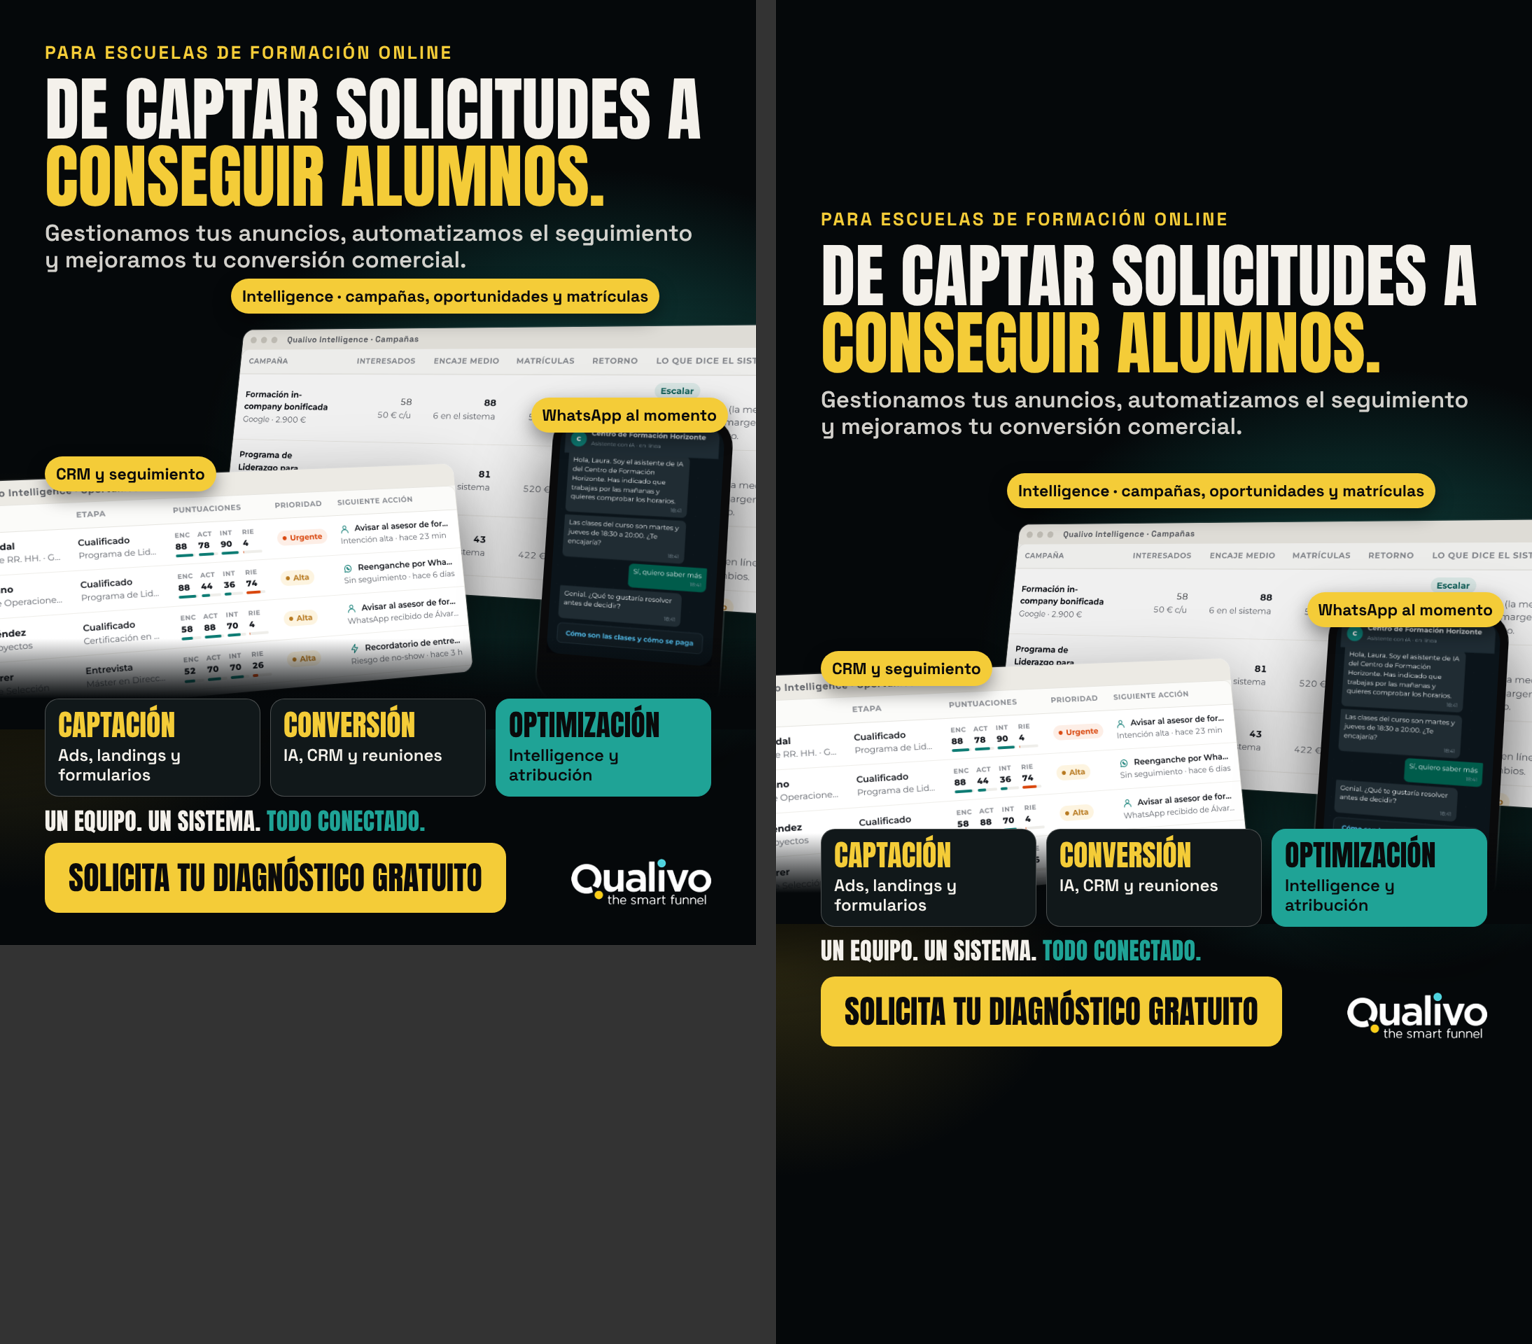
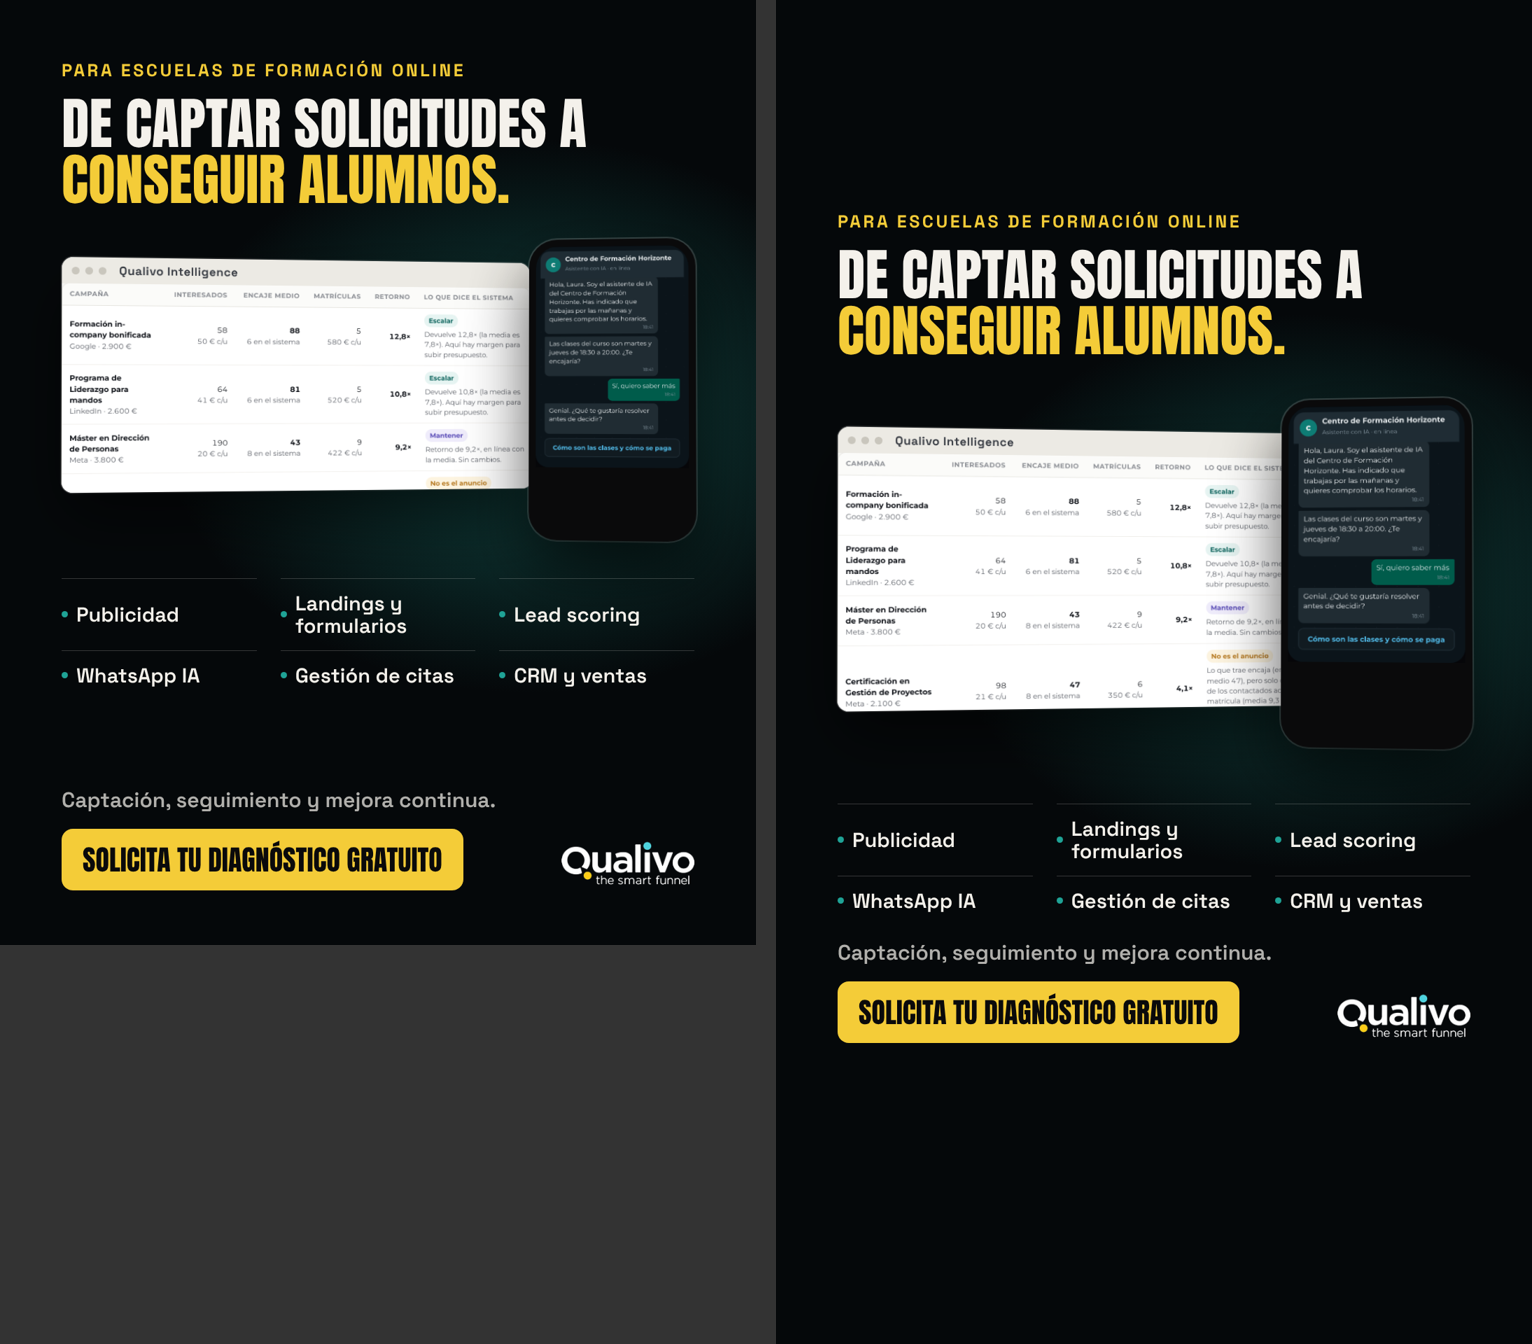
Batería de Formación: «Sistema completo» con más aire (titular menor, dos interfaces, servicios en rejilla)
Claude-Session: https://claude.ai/code/session_01MkLw18JtVaTcJ5wUw6JLih

diff --git a/content/anuncios/2026-11-24-bateria-formacion/final.html b/content/anuncios/2026-11-24-bateria-formacion/final.html
@@ -1,57 +1,36 @@
 <!doctype html><html lang="es"><head><meta charset="utf-8">
-<!-- «Sistema completo» · versión final (24-nov, noche), sobre la propuesta oscura elegida por Maikel · final.html#45 | #916
+<!-- «Sistema completo» · versión con aire (24-nov, noche), sobre la propuesta oscura elegida por Maikel · final.html#45 | #916
      Las interfaces son pantallas reales de Qualivo Intelligence y del asistente de WhatsApp con datos ilustrativos del entorno de demostración. -->
 <style>
 @font-face{font-family:Anton;src:url(../2026-09-11-v2/fuentes/anton.ttf) format('truetype')}
 @font-face{font-family:SG;src:url(../2026-09-11-v2/fuentes/spacegrotesk.woff2) format('woff2');font-weight:300 700}
 *{box-sizing:border-box;margin:0;padding:0}html,body{background:#333}
-#e{position:relative;width:1080px;height:1350px;overflow:hidden;font-family:SG,sans-serif;background:#05080A;color:#F4F1EB}
-#e.f916{height:1920px}
-#e::before{content:"";position:absolute;inset:0;background:radial-gradient(900px 700px at 78% 50%,rgba(31,163,150,.55),transparent 62%),radial-gradient(700px 500px at 0% 72%,rgba(244,204,56,.16),transparent 60%)}
-.tx{position:absolute;left:64px;right:64px;top:58px;z-index:5}.f916 .tx{top:296px}
-.id{font-weight:700;font-size:26px;letter-spacing:.12em;text-transform:uppercase;color:#F4CC38}
-h1{font-family:Anton;font-weight:400;font-size:100px;line-height:.96;text-transform:uppercase;margin-top:16px}h1 em{font-style:normal;color:#F4CC38}
-.sub{font-weight:600;font-size:33px;line-height:1.16;margin-top:14px;color:rgba(244,241,235,.86)}
-.esc{position:absolute;left:0;right:0;top:412px;height:590px;perspective:1900px;z-index:2}.f916 .esc{top:670px;height:640px}
-.esc::after{content:"";position:absolute;left:0;right:0;bottom:-60px;height:200px;background:linear-gradient(transparent,#05080A 66%);z-index:4}
-.win{position:absolute;border-radius:18px;overflow:hidden;background:#fff;box-shadow:0 50px 110px rgba(0,0,0,.6),0 0 0 1.5px rgba(255,255,255,.16)}
-.win .bar{height:34px;background:#ECEAE4;display:flex;align-items:center;gap:8px;padding:0 14px}.win .bar i{width:11px;height:11px;border-radius:50%;background:#C9C6BD;display:block}
-.win .bar b{margin-left:10px;font-size:14px;font-weight:700;color:#5A5D63;letter-spacing:.04em}.win img{display:block;width:100%}
-#w0{left:250px;top:0;width:900px;transform:rotateY(-20deg) rotateX(9deg) rotateZ(2deg) translateZ(-160px);filter:brightness(.94)}
-#w1{left:-110px;top:215px;width:860px;transform:rotateY(18deg) rotateX(9deg) rotateZ(-2.5deg)}
-.tel{position:absolute;right:40px;top:150px;width:262px;height:455px;border-radius:42px;background:#0A0A0B;padding:11px;box-shadow:0 50px 100px rgba(0,0,0,.65),0 0 0 2px rgba(255,255,255,.18);transform:rotateY(-16deg) rotateX(6deg) rotateZ(3deg) translateZ(120px)}
-.tel div{border-radius:32px;overflow:hidden;height:100%}.tel img{display:block;width:100%}
-.tag{position:absolute;z-index:6;font-weight:700;font-size:23px;padding:10px 16px;border-radius:999px;white-space:nowrap;background:#F4CC38;color:#0A0A0B;box-shadow:0 10px 26px rgba(0,0,0,.4)}
-.blo{position:absolute;left:64px;right:64px;bottom:214px;z-index:5;display:grid;grid-template-columns:1fr 1fr 1fr;gap:14px}.f916 .blo{bottom:600px}
-.blo div{border-radius:20px;padding:16px 18px 17px;background:rgba(244,241,235,.09);border:1.5px solid rgba(244,241,235,.24)}
-.blo b{display:block;font-family:Anton;font-weight:400;font-size:42px;line-height:1;text-transform:uppercase;color:#F4CC38}
-.blo span{display:block;font-weight:600;font-size:24px;line-height:1.14;margin-top:8px}
-.blo div.z{background:#1FA396;border-color:#1FA396;color:#0A0A0B}.blo div.z b{color:#0A0A0B}
-.cie{position:absolute;left:64px;right:64px;bottom:160px;z-index:5;font-family:Anton;font-size:34px;line-height:1;text-transform:uppercase;letter-spacing:.01em}.cie em{font-style:normal;color:#1FA396}
-.f916 .cie{bottom:545px}
-.pie{position:absolute;left:64px;right:64px;bottom:46px;z-index:5;display:flex;align-items:center;justify-content:space-between}.f916 .pie{bottom:425px}
-.cta{font-family:Anton;font-size:46px;line-height:1;text-transform:uppercase;padding:27px 34px;border-radius:20px;background:#F4CC38;color:#0A0A0B}
-.lg{width:200px}
-
-.f916 .esc{height:590px;top:690px}
-#w0{left:215px;top:6px;width:900px;height:420px}
-#w1{left:-110px;top:262px;width:800px;height:318px}
-.tel{top:196px;width:240px;height:400px;right:44px}
-.esc::after{bottom:-40px;height:130px}
-.blo div{background:#11181A;border-color:rgba(244,241,235,.26)}
-.blo{bottom:212px}.f916 .blo{bottom:596px}
+#e{position:relative;width:1080px;height:1350px;overflow:hidden;font-family:SG,sans-serif;background:#05080A;color:#F4F1EB;padding:84px 88px 78px;display:flex;flex-direction:column}
+#e.f916{height:1920px;padding:300px 88px 430px}
+#e::before{content:"";position:absolute;inset:0;background:radial-gradient(820px 620px at 70% 44%,rgba(31,163,150,.42),transparent 64%)}
+#e>*{position:relative}
+.id{font-weight:700;font-size:25px;letter-spacing:.14em;text-transform:uppercase;color:#F4CC38}
+h1{font-family:Anton;font-weight:400;font-size:80px;line-height:1;text-transform:uppercase;margin-top:20px}h1 em{font-style:normal;color:#F4CC38}
+.esc{height:440px;margin-top:44px;perspective:2200px}.f916 .esc{height:520px;margin-top:56px}
+.win{position:absolute;left:0;top:26px;width:690px;height:338px;border-radius:16px;overflow:hidden;background:#fff;box-shadow:0 40px 90px rgba(0,0,0,.6),0 0 0 1.5px rgba(255,255,255,.16);transform:rotateY(9deg) rotateX(3deg);transform-origin:0 50%}
+.f916 .win{top:40px;height:408px;width:700px}
+.win .bar{height:38px;background:#ECEAE4;display:flex;align-items:center;gap:8px;padding:0 14px}.win .bar i{width:11px;height:11px;border-radius:50%;background:#C9C6BD;display:block}
+.win .bar b{margin-left:10px;font-size:17px;font-weight:700;color:#3D4148;letter-spacing:.03em}.win img{display:block;width:100%}
+.tel{position:absolute;right:0;top:0;width:236px;height:432px;border-radius:40px;background:#0A0A0B;padding:10px;box-shadow:0 40px 90px rgba(0,0,0,.65),0 0 0 2px rgba(255,255,255,.2);transform:rotateY(-8deg) rotateX(3deg)}
+.f916 .tel{width:270px;height:500px}
+.tel div{border-radius:31px;overflow:hidden;height:100%}.tel img{display:block;width:100%}
+.ser{display:grid;grid-template-columns:repeat(3,1fr);column-gap:34px;margin-top:46px}.f916 .ser{margin-top:60px}
+.ser span{display:flex;align-items:center;gap:12px;font-weight:600;font-size:29px;line-height:1.1;padding:19px 0;border-top:1.5px solid rgba(244,241,235,.2)}
+.ser span i{flex:none;width:9px;height:9px;border-radius:50%;background:#1FA396;display:block}
+.cie{margin-top:auto;font-weight:600;font-size:30px;color:rgba(244,241,235,.72)}
+.pie{margin-top:22px;display:flex;align-items:center;justify-content:space-between}
+.cta{font-family:Anton;font-size:40px;line-height:1;text-transform:uppercase;padding:24px 30px;border-radius:16px;background:#F4CC38;color:#0A0A0B}
+.lg{width:190px}
 </style></head><body><div id="e">
- <div class="tx"><div class="id">Para escuelas de formación online</div><h1>De captar solicitudes a <em>conseguir alumnos.</em></h1>
-  <div class="sub">Gestionamos tus anuncios, automatizamos el seguimiento y mejoramos tu conversión comercial.</div></div>
- <div class="esc">
-  <div class="win" id="w0"><div class="bar"><i></i><i></i><i></i><b>Qualivo Intelligence · Campañas</b></div><img src="cap/anuncios.png"></div>
-  <div class="win" id="w1"><div class="bar"><i></i><i></i><i></i><b>Qualivo Intelligence · Oportunidades</b></div><img src="cap/oportunidades.png"></div>
-  <div class="tel"><div><img src="cap/whatsapp.png"></div></div>
-  <div class="tag" style="left:330px;top:-14px">Intelligence · campañas, oportunidades y matrículas</div>
-  <div class="tag" style="left:64px;top:240px">CRM y seguimiento</div>
-  <div class="tag" style="right:40px;top:156px">WhatsApp al momento</div>
- </div>
- <div class="blo"><div><b>Captación</b><span>Ads, landings y formularios</span></div><div><b>Conversión</b><span>IA, CRM y reuniones</span></div><div class="z"><b>Optimización</b><span>Intelligence y atribución</span></div></div>
- <div class="cie">Un equipo. Un sistema. <em>Todo conectado.</em></div>
+ <div class="id">Para escuelas de formación online</div>
+ <h1>De captar solicitudes a <em>conseguir alumnos.</em></h1>
+ <div class="esc"><div class="win"><div class="bar"><i></i><i></i><i></i><b>Qualivo Intelligence</b></div><img src="cap/anuncios.png"></div><div class="tel"><div><img src="cap/whatsapp.png"></div></div></div>
+ <div class="ser"><span><i></i>Publicidad</span><span><i></i>Landings y formularios</span><span><i></i>Lead scoring</span><span><i></i>WhatsApp IA</span><span><i></i>Gestión de citas</span><span><i></i>CRM y ventas</span></div>
+ <div class="cie">Captación, seguimiento y mejora continua.</div>
  <div class="pie"><div class="cta">Solicita tu diagnóstico gratuito</div><img class="lg" src="../../video/2026-09-17-sistema/rec/logo-blanco.png"></div>
 </div><script>document.getElementById('e').className='f'+(location.hash.slice(1)||'45')</script></body></html>

diff --git a/content/anuncios/2026-11-24-bateria-formacion/render-final.js b/content/anuncios/2026-11-24-bateria-formacion/render-final.js
@@ -2,5 +2,5 @@
 const {chromium}=require('playwright');
 (async()=>{const b=await chromium.launch();for(const f of ['45','916']){const p=await b.newPage({viewport:{width:1080,height:f==='45'?1350:1920}});
  await p.goto('file://'+__dirname+'/final.html#'+f,{waitUntil:'networkidle'});await p.evaluate(()=>document.fonts.ready);
- const o=await p.evaluate(f=>{const lo=f==='916'?285:20,hi=f==='916'?1525:1330;return [...document.querySelectorAll('.id,h1,.sub,.blo,.cie,.cta,.lg')].map(c=>[c.className||c.tagName,c.getBoundingClientRect()]).filter(([n,q])=>q.top<lo||q.bottom>hi||q.right>1060).map(([n,q])=>n+' '+Math.round(q.top)+'-'+Math.round(q.bottom))},f);
+ const o=await p.evaluate(f=>{const lo=f==='916'?285:20,hi=f==='916'?1525:1330;return [...document.querySelectorAll('.id,h1,.esc,.ser,.cie,.cta,.lg')].map(c=>[c.className||c.tagName,c.getBoundingClientRect()]).filter(([n,q])=>q.top<lo||q.bottom>hi||q.right>1060).map(([n,q])=>n+' '+Math.round(q.top)+'-'+Math.round(q.bottom))},f);
  await (await p.$('#e')).screenshot({path:`${__dirname}/png/sistema-completo-FINAL-${f}.png`});console.log(f,o.length?'⚠ '+o.join(' | '):'ok');await p.close();}await b.close();})();

diff --git a/content/anuncios/2026-11-24-bateria-formacion/entrega-final.md b/content/anuncios/2026-11-24-bateria-formacion/entrega-final.md
@@ -148,3 +148,13 @@ Maikel elige la propuesta oscura («8/10, merece probarse») y pide tres ajustes
 - **Legibilidad:** el texto propio más pequeño mide 24 px sobre 1080 (las tres áreas). El texto de dentro de las capturas no está pensado para leerse entero en el móvil.
 - **Copy del anuncio:** texto principal «Para escuelas de formación online. Gestionamos tus anuncios, automatizamos el seguimiento y mejoramos tu conversión comercial: respuesta por WhatsApp, cualificación, CRM, reuniones y los datos de ventas conectados con tus campañas. Un equipo y un sistema. Solicita tu diagnóstico gratuito.» · Título «De captar solicitudes a conseguir alumnos» · Descripción «Diagnóstico gratuito para escuelas online».
 - **Plan de Maikel:** ponerla a competir con el vídeo antiguo y el V7 dentro de los 30 €/día conjuntos. Lo ejecuta Paid con su instrucción.
+
+### Ajuste de aire (24-nov, noche)
+
+Maikel: «el problema no es la cantidad de funcionalidades, sino cómo están distribuidas; quiero darle más aire». La versión final (`png/sistema-completo-FINAL-45.png` y `-916.png`) queda así:
+
+- Titular un 20 % más pequeño (80 px) y márgenes laterales de 88 px.
+- Solo dos elementos visuales: la ventana de Qualivo Intelligence (tabla de campañas) y el móvil con el asistente de WhatsApp, apenas solapados. Sin etiquetas flotantes.
+- Sin subtítulo. Los servicios, en una rejilla de 3 × 2 con líneas finas: Publicidad · Landings y formularios · Lead scoring · WhatsApp IA · Gestión de citas · CRM y ventas. Intelligence no va en la rejilla porque es la pantalla principal, con su nombre en la barra de la ventana.
+- Cierre «Captación, seguimiento y mejora continua.» y botón algo más pequeño (40 px).
+- La versión anterior, más cargada, está en el commit 3c227d1a.
